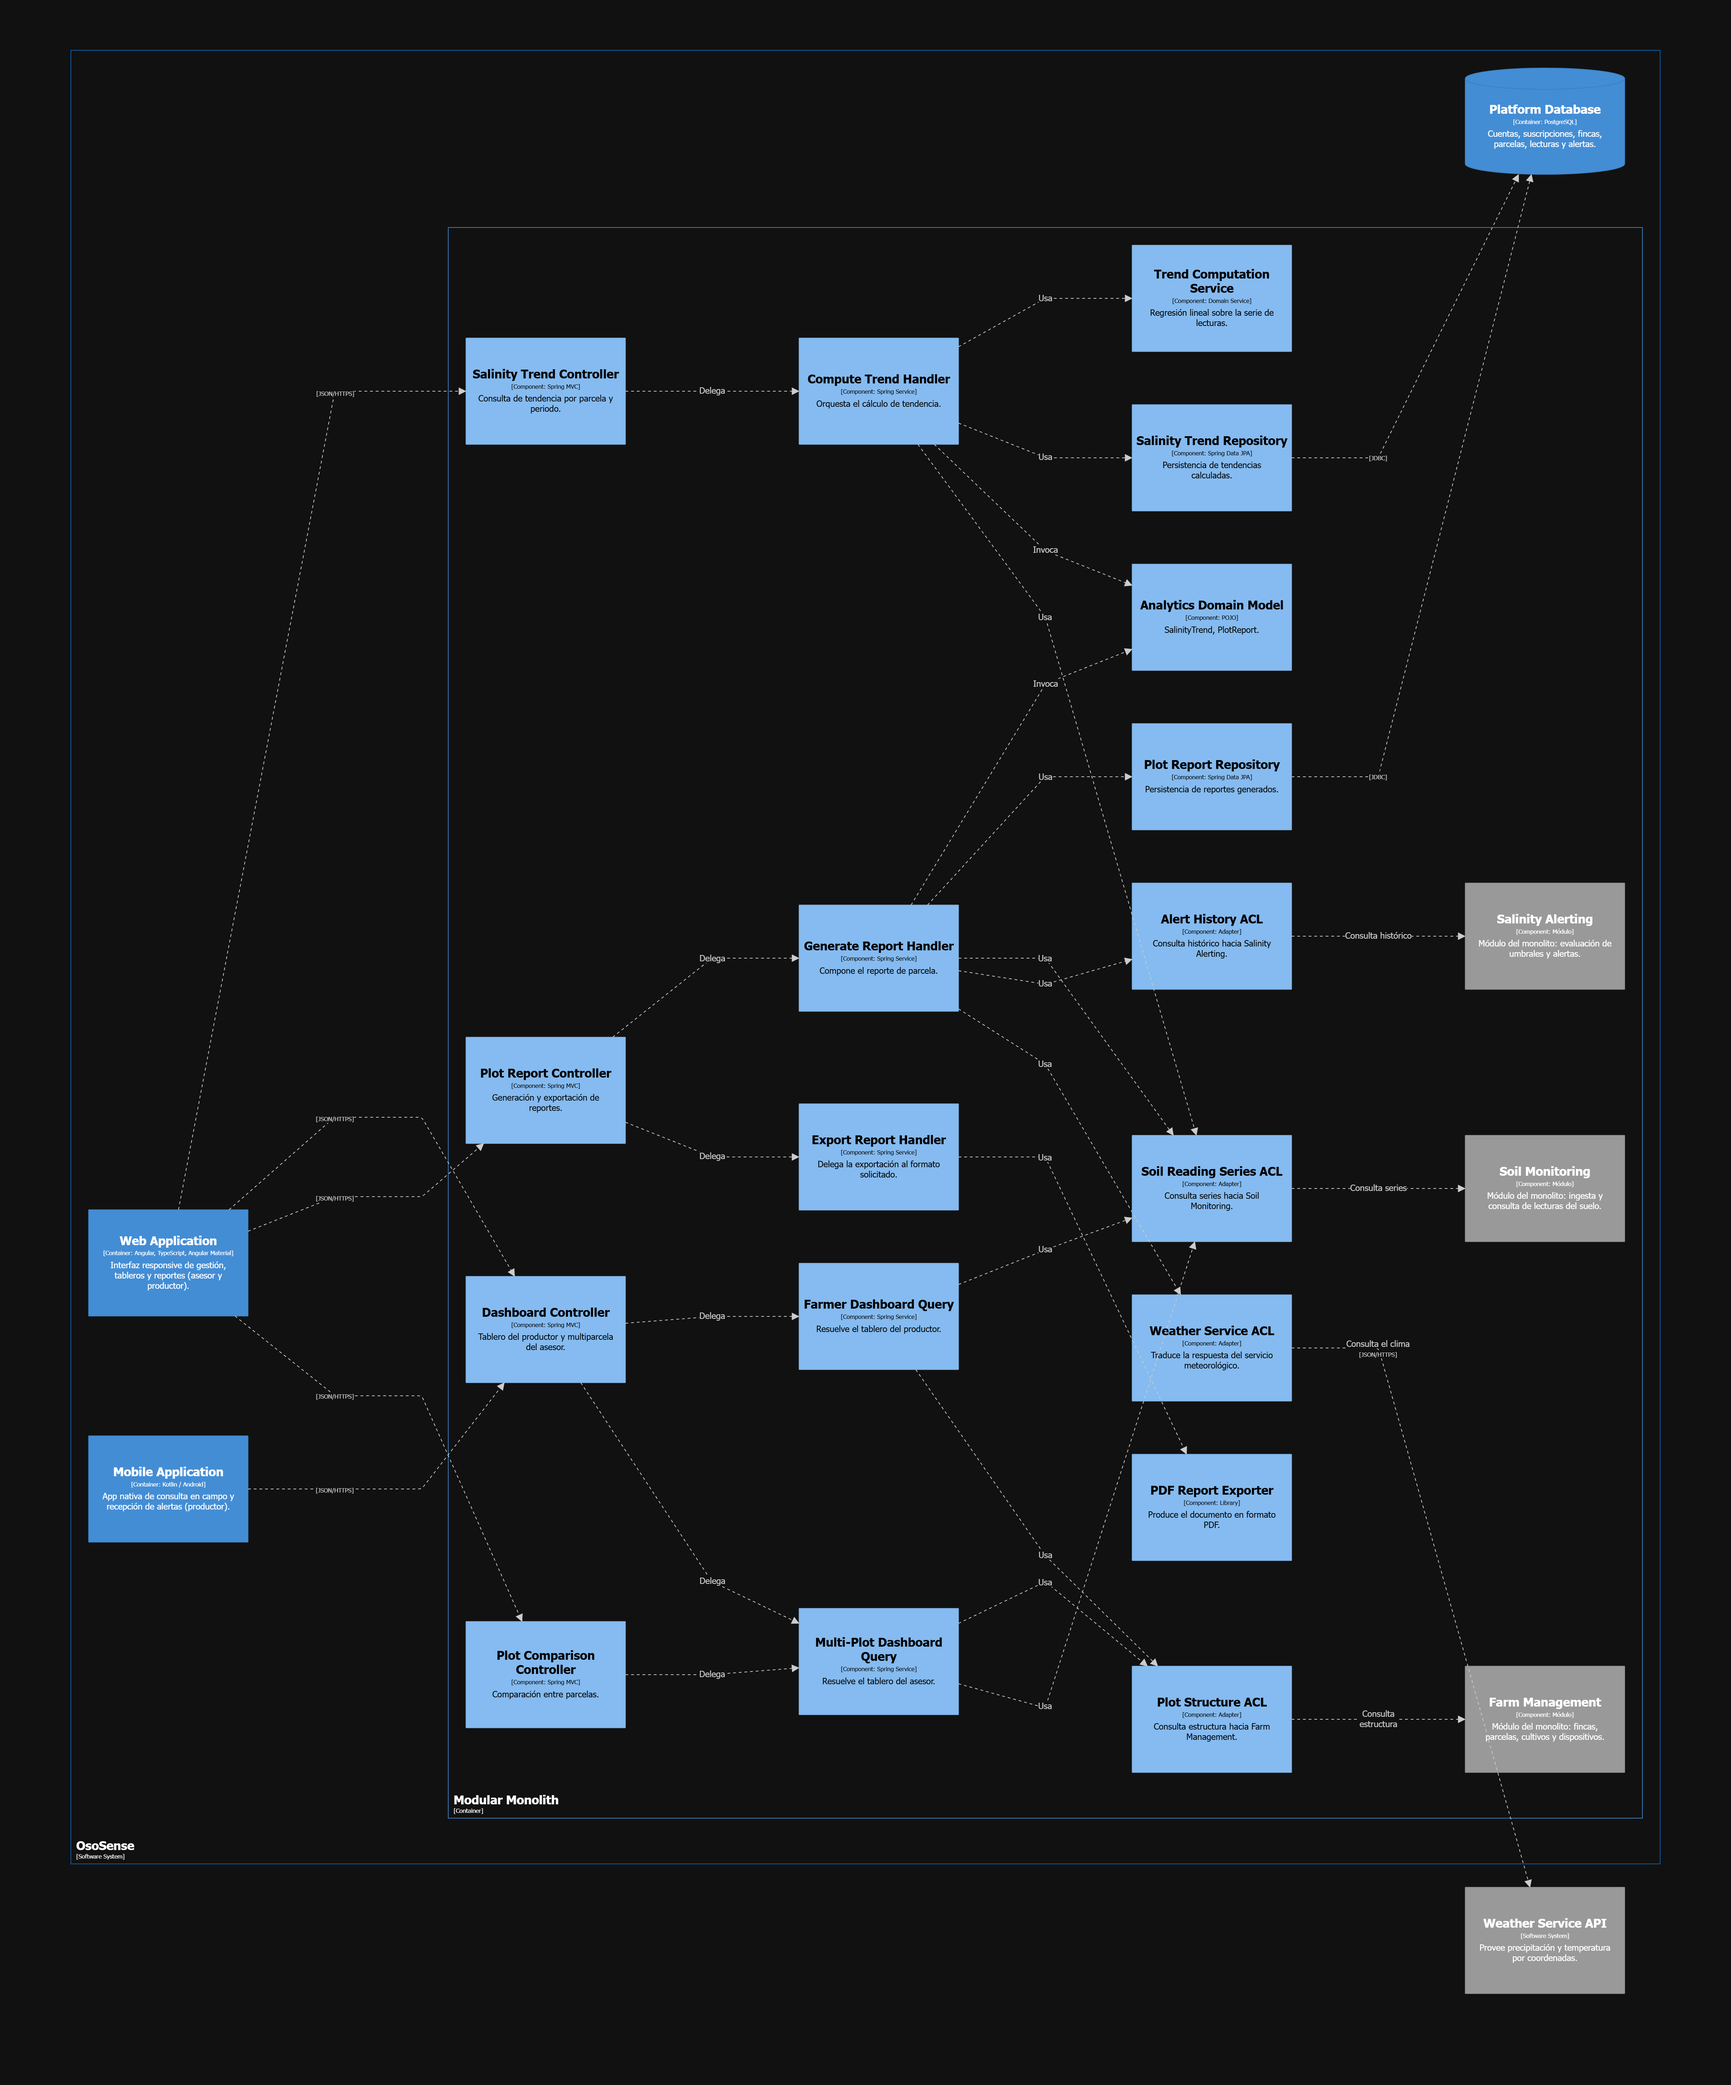
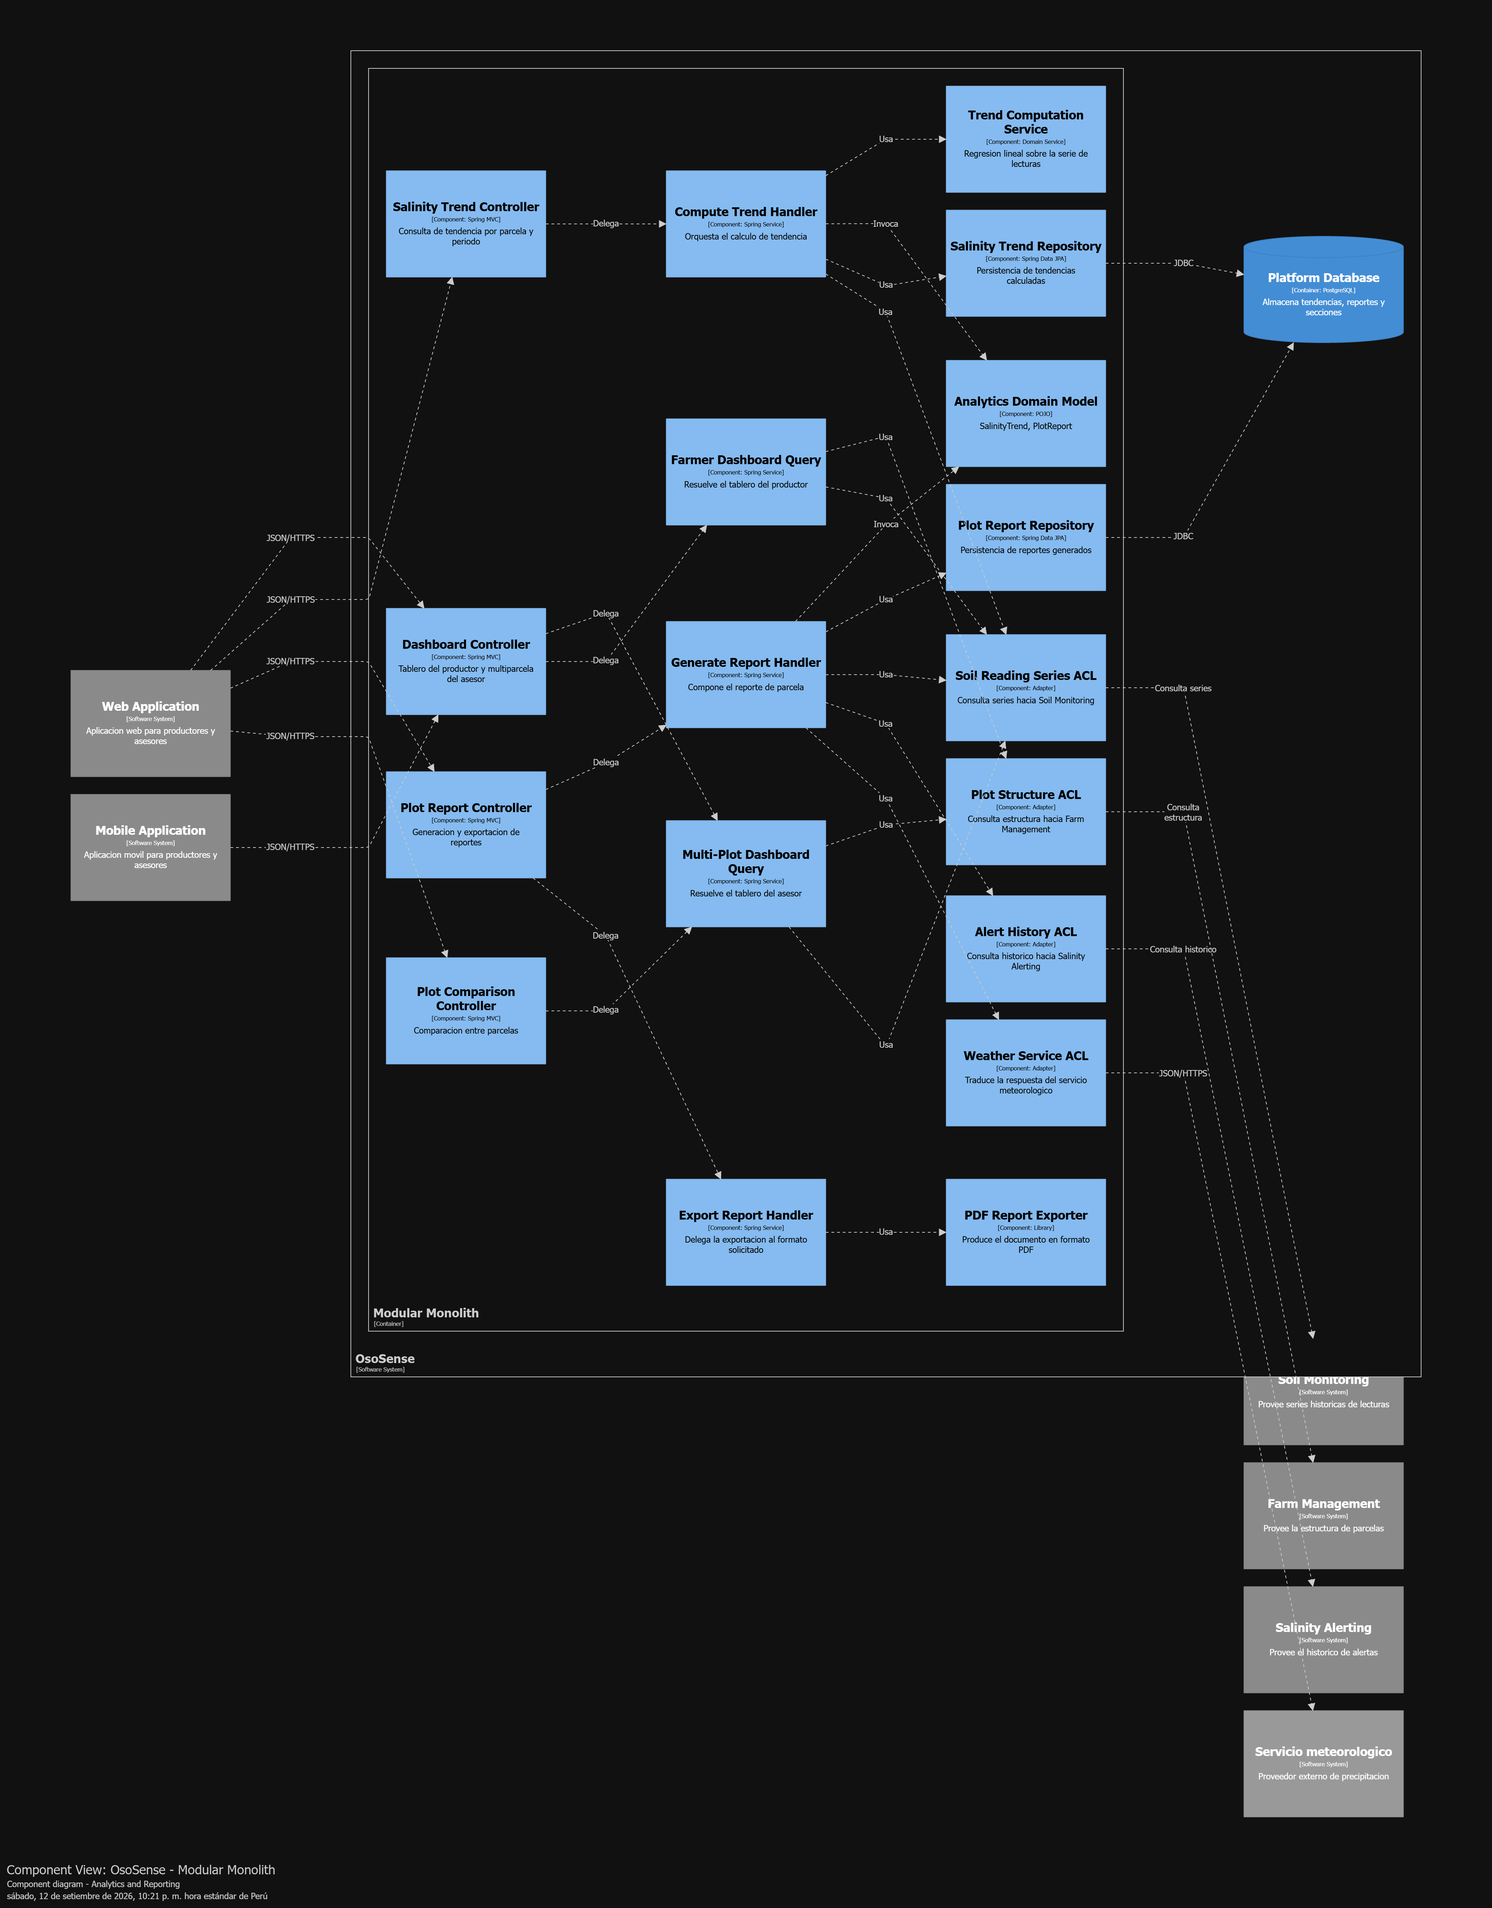
docs(chapter-4): restore original component diagram layouts

diff --git a/chapters/chapter4.md b/chapters/chapter4.md
@@ -716,7 +716,7 @@ Definidos los límites y las relaciones entre contextos en la sección anterior,
 
 Cada contexto se documenta con la misma estructura, derivada de la arquitectura por capas propuesta por el Domain-Driven Design. La **capa de dominio** concentra las reglas de negocio y el modelo conceptual —aggregate roots, entidades, value objects, enumeraciones y domain services— sin dependencia alguna de infraestructura. La **capa de interfaz** expone las capacidades del contexto hacia el exterior mediante controladores REST y transformadores de recursos. La **capa de aplicación** orquesta los casos de uso coordinando el dominio con los servicios de infraestructura, sin contener reglas de negocio propias. La **capa de infraestructura** implementa la persistencia y la integración con sistemas externos mediante repositorios y adaptadores.
 
-A esa descripción por capas se suman, en cada contexto, el **Component Level Diagram**, que corresponde al tercer nivel del modelo C4 y muestra los componentes internos del contexto y sus dependencias, y los **Code Level Diagrams**, que descienden al cuarto nivel con el diagrama de clases de la capa de dominio y el diseño de la base de datos. Los Component Diagrams forman parte del mismo modelo en Structurizr DSL que las vistas de 4.1.3 (`assets/strategic-ddd/c4/ososense.dsl`). Cada uno se ubica dentro del contenedor **Modular Monolith** o, en el caso del lado de campo de Soil Monitoring, dentro del **Edge Service**. Los demás bounded contexts con los que se comunica aparecen en gris como **módulos del mismo monolito**, no como sistemas externos.
+A esa descripción por capas se suman, en cada contexto, el **Component Level Diagram**, que corresponde al tercer nivel del modelo C4 y muestra los componentes internos del contexto y sus dependencias, y los **Code Level Diagrams**, que descienden al cuarto nivel con el diagrama de clases de la capa de dominio y el diseño de la base de datos.
 
 La uniformidad de esta estructura es deliberada: permite comparar contextos entre sí y facilita que distintos integrantes del equipo trabajen en paralelo sobre contextos diferentes manteniendo la coherencia del documento.
 

diff --git a/versions.md b/versions.md
@@ -108,7 +108,7 @@
 | 0.0.102 | 29/09/2026 | Andreow Jomark Santiago Peña | Capítulo IV: base de datos de la plataforma corregida a PostgreSQL (la que usa el RESTful API) en el texto de 4.1.3, el Structurizr DSL y los diagramas de contenedores y de despliegue. |
 | 0.0.103 | 29/09/2026 | Andreow Jomark Santiago Peña | Contenido: índice actualizado con el Capítulo VI (6.1 y Sprint 1) y los títulos vigentes de la guía de estilo web. |
 | 0.0.104 | 06/10/2026 | Andreow Jomark Santiago Peña | Capítulo IV: el contenedor de backend se presenta como Modular Monolith (no como RESTful API) en el Structurizr DSL, los diagramas de contenedores y de despliegue y el texto del capítulo. |
-| 0.0.105 | 06/10/2026 | Andreow Jomark Santiago Peña | Capítulo IV: Component Diagrams de los seis bounded contexts y del Edge Service rehechos en el Structurizr DSL del C4, dentro del contenedor Modular Monolith y con los demás contextos como módulos. |
+| 0.0.105 | 06/10/2026 | Andreow Jomark Santiago Peña | Capítulo IV: Component Diagrams con el contenedor renombrado a Modular Monolith y el sistema a OsoSense, conservando su diseño original. |
 
 <div style="page-break-before: always; break-before: page;"></div>
 
